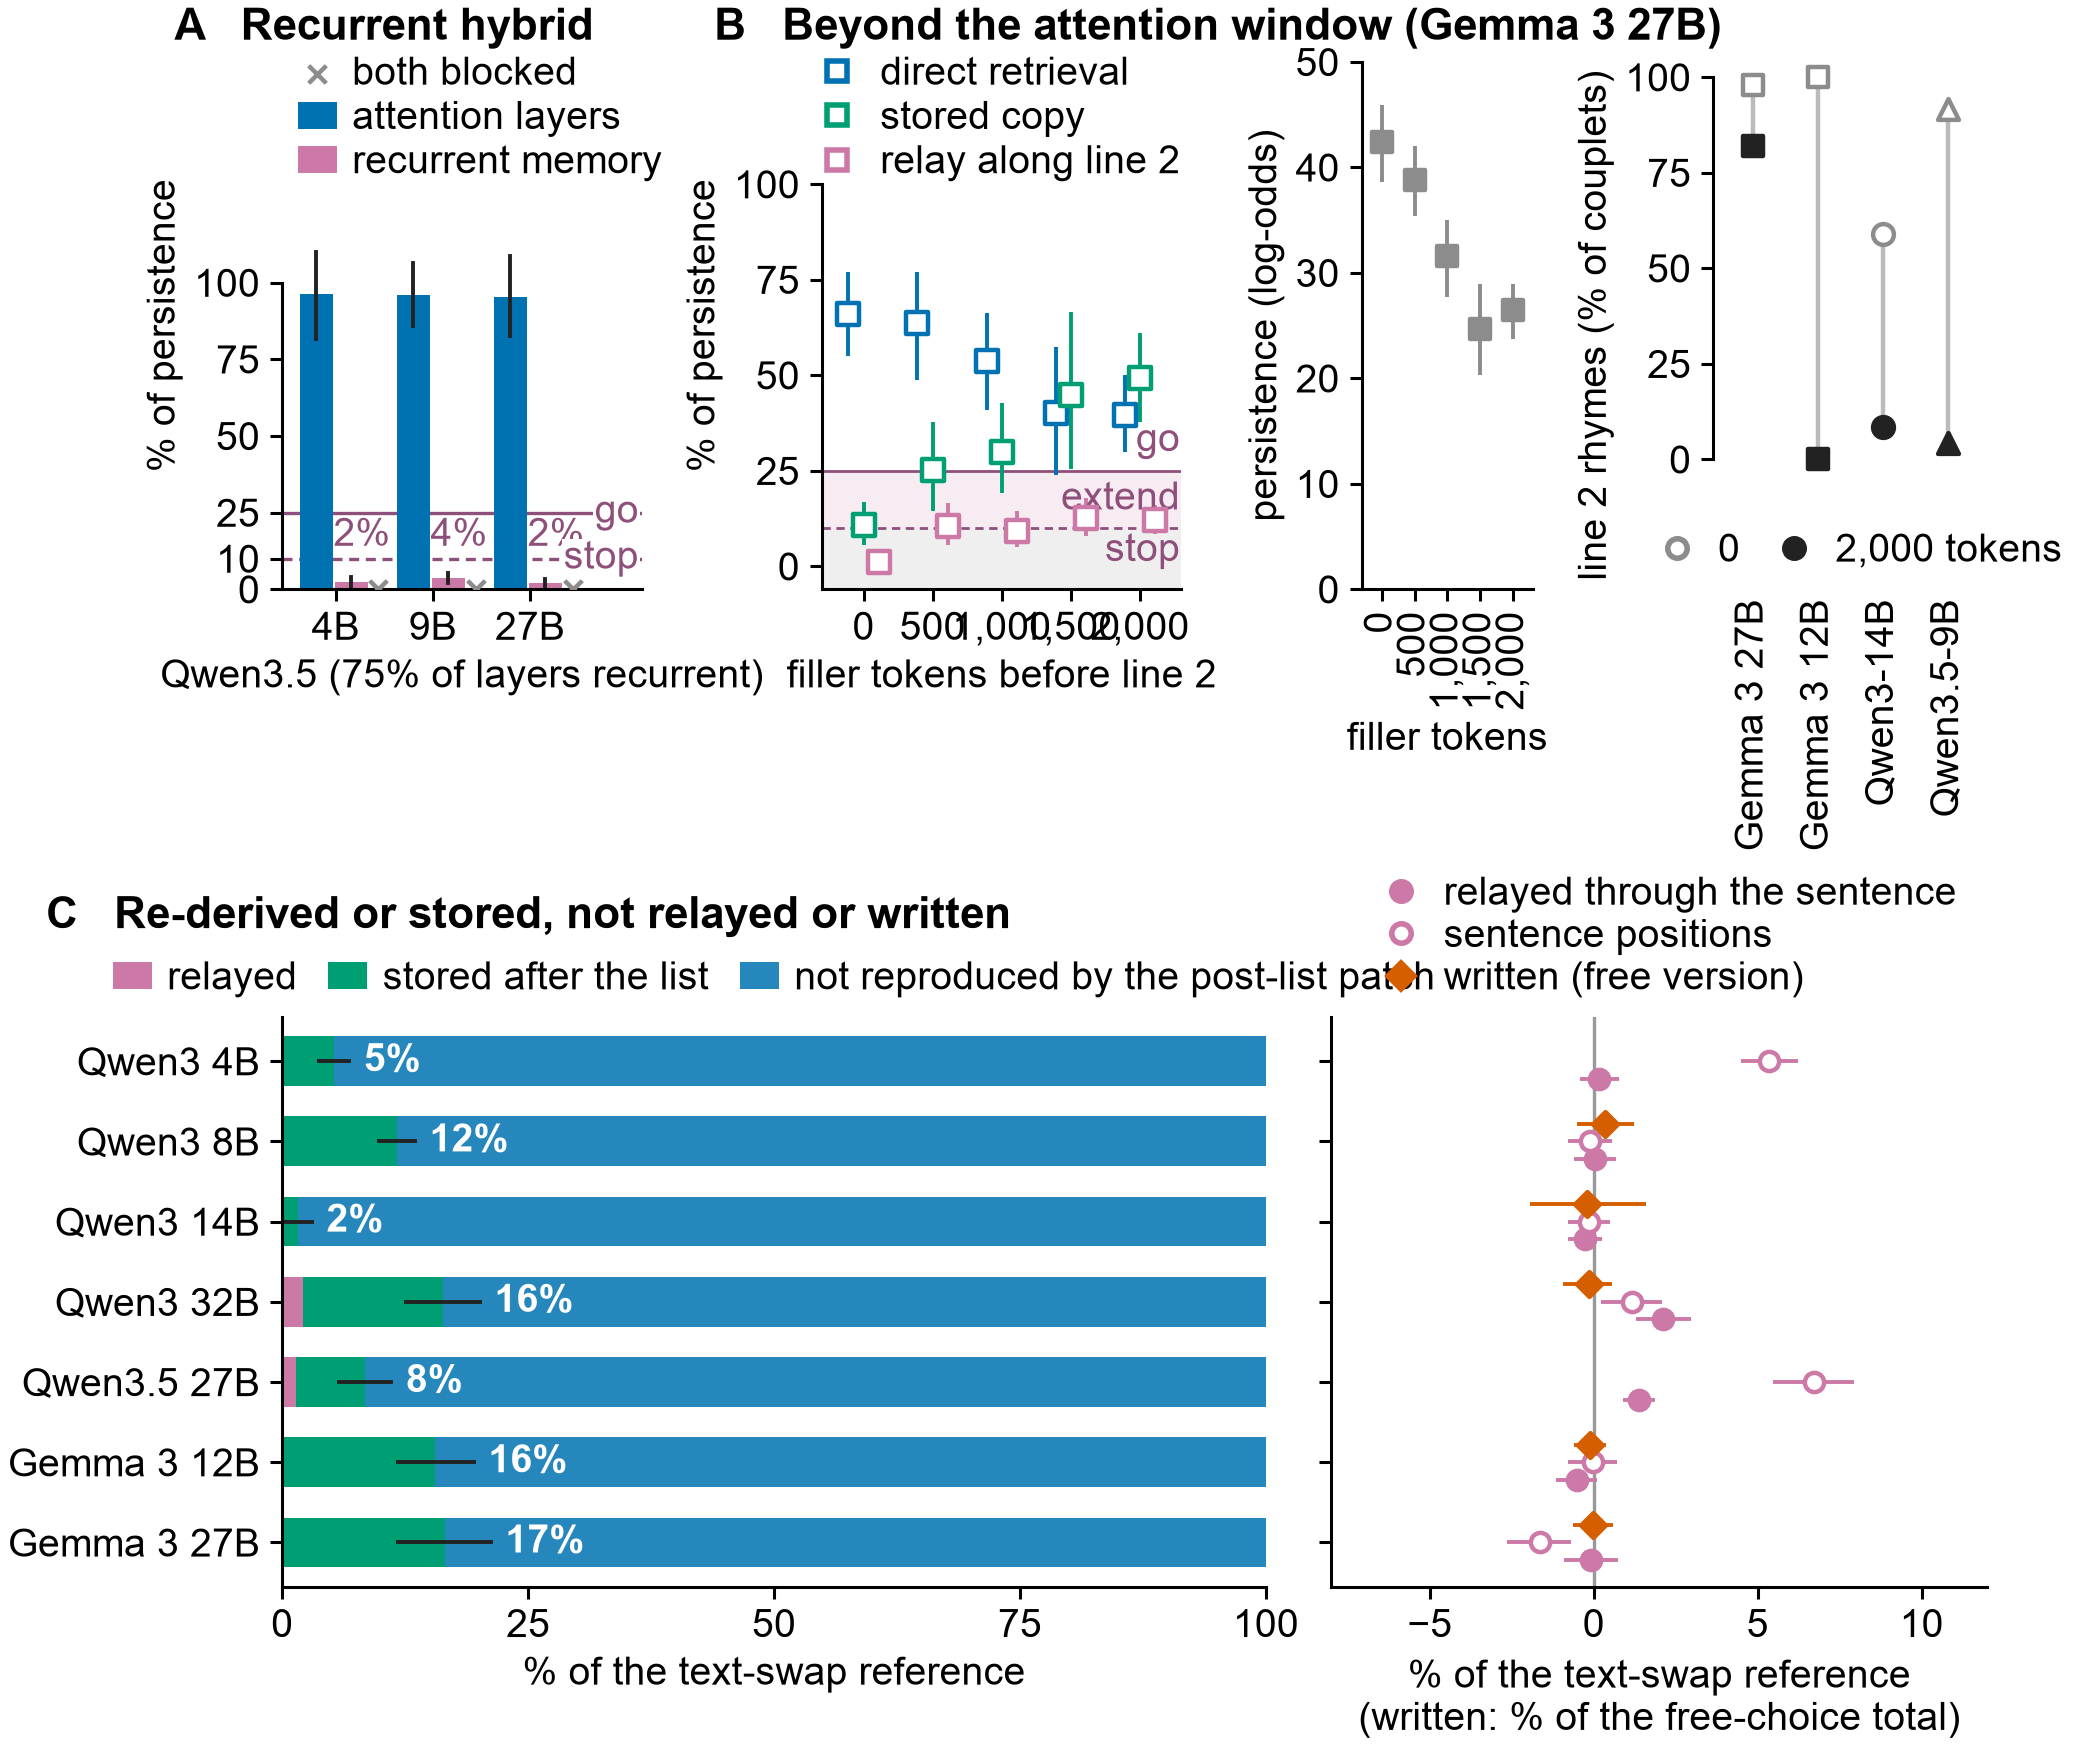
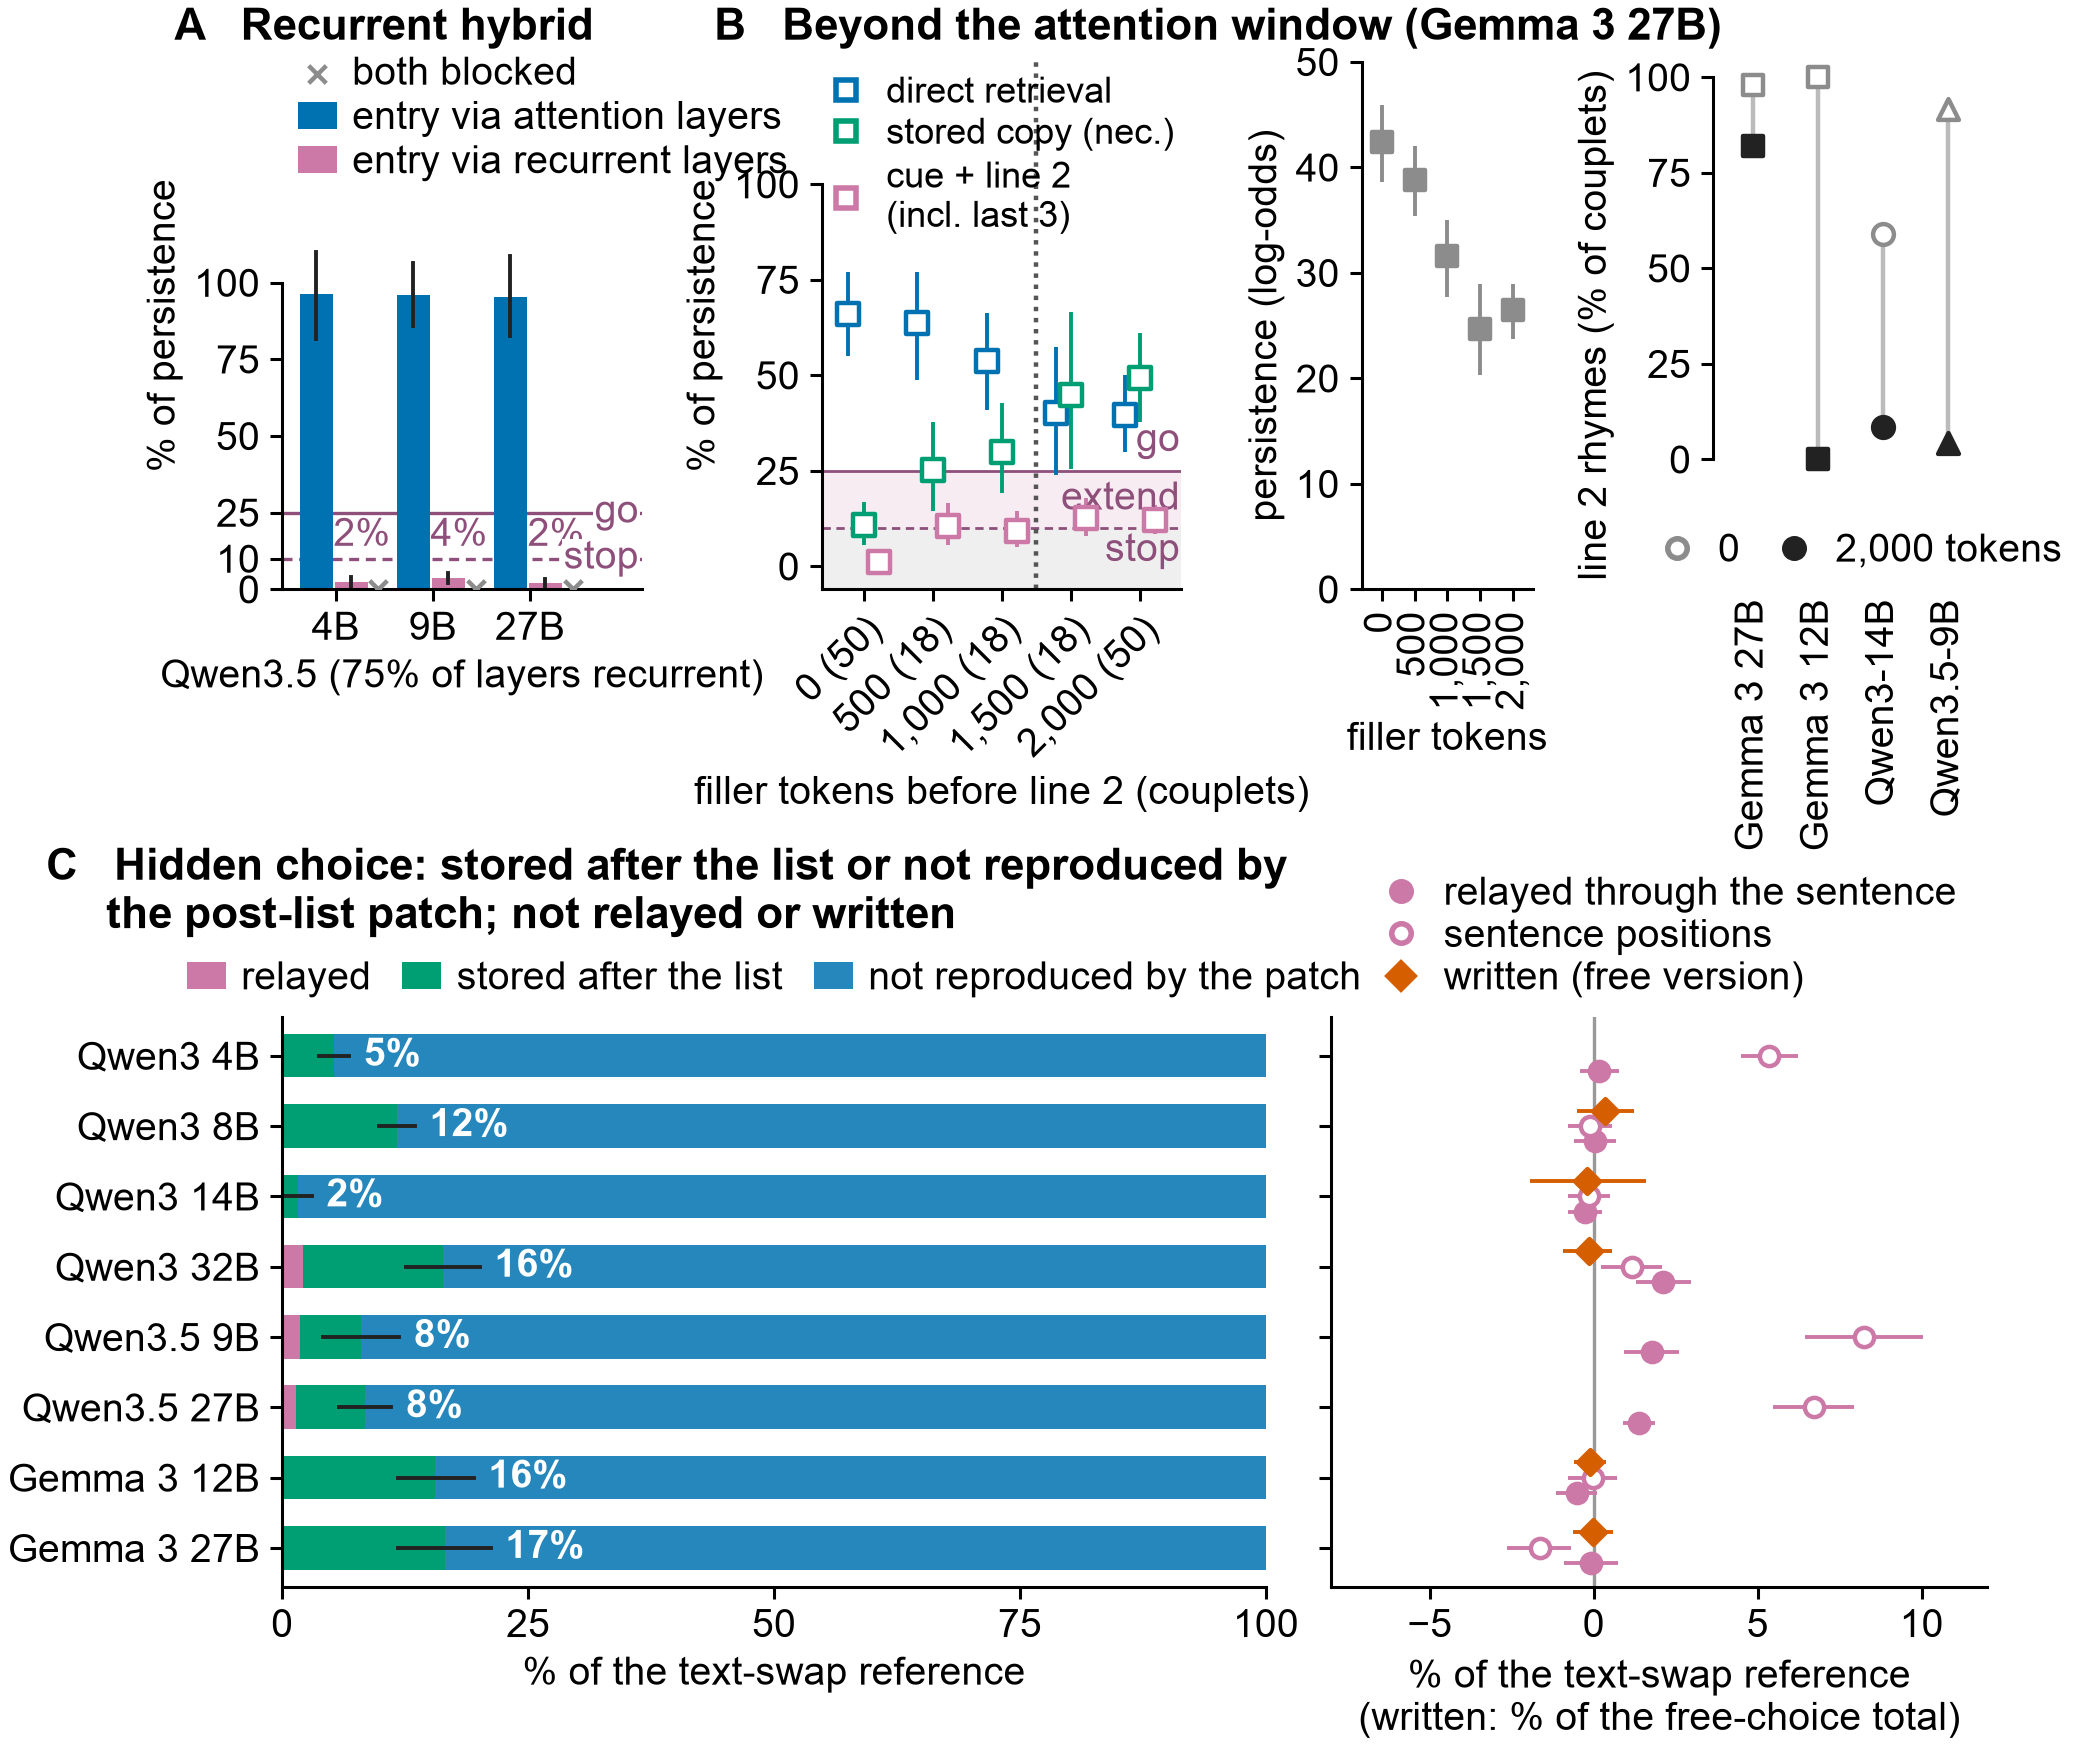
Review round 4 consistency pass: abstract, Table 1, recurrent wording as source entry, distance block unsplit (boundary case), window curve sample sizes and window marker, hidden-choice complement wording, Figure 5 patch-effect wording

diff --git a/manuscript/figures/make_iclr_figures.py b/manuscript/figures/make_iclr_figures.py
@@ -296,7 +296,7 @@ def fig1():
     xr0, xr1 = 1.92, 5.3
     axT = fig.add_axes([fx(xr0), fy(ybot + hb + brk), fx(xr1 - xr0), fy(ht)])
     axL = fig.add_axes([fx(xr0), fy(ybot), fx(xr1 - xr0), fy(hb)])
-    fig.text(0.0, fy(3.3), "B   Relay carries induction; elsewhere information is looked up", fontsize=8,
+    fig.text(0.0, fy(3.3), "B   Measured lookup and relay cells: relay carries induction, and is small elsewhere", fontsize=8,
              weight="bold", va="top")
     den_y = fy(0.5)
 
@@ -956,8 +956,8 @@ def fig4():
         a = share(x["attention_only"], x["persistence"])
         r = share(x["recurrent_only"], x["persistence"])
         b = share(x.get("both_blocked"), x["persistence"])
-        ax.bar(i - 0.2, a[0], 0.34, color=COL["retrieval"], label="attention layers" if i == 0 else None)
-        ax.bar(i + 0.16, r[0], 0.34, color=COL["relay"], label="recurrent memory" if i == 0 else None)
+        ax.bar(i - 0.2, a[0], 0.34, color=COL["retrieval"], label="entry via attention layers" if i == 0 else None)
+        ax.bar(i + 0.16, r[0], 0.34, color=COL["relay"], label="entry via recurrent layers" if i == 0 else None)
         for xx, v in ((i - 0.2, a), (i + 0.16, r)):
             if np.isfinite(v[1]):
                 ax.plot([xx, xx], [v[1], v[2]], color=COL["ink"], lw=0.7)
@@ -994,21 +994,24 @@ def fig4():
                           (0.22, "relay_line2", COL["relay"])):
             dot(ax, i + off, share(v[k], v["persistence"]), c, "s", False, s=16)
     ax.set_xticks(range(len(ds)))
-    ax.set_xticklabels([f"{D:,}" for D in ds])
+    ax.set_xticklabels([f"{D:,} ({byd[D]['n']})" for D in ds], rotation=45, ha="right", rotation_mode="anchor")
     ax.set_xlim(-0.6, len(ds) - 0.4)
     ax.set_ylim(-6, 132)
+    if 1000 in ds and 1500 in ds:
+        xw = (ds.index(1000) + ds.index(1500)) / 2
+        ax.axvline(xw, color="#555555", lw=0.8, ls=(0, (1, 1.5)), zorder=1)
     ax.set_yticks([0, 25, 50, 75, 100])
     ax.spines["left"].set_bounds(-6, 100)
     xr = len(ds) - 0.42
     ax.text(xr, 4, "stop", fontsize=7, color="#8E4F7A", ha="right", va="center")
     ax.text(xr, 17.5, "extend", fontsize=7, color="#8E4F7A", ha="right", va="center")
     ax.text(xr, 28, "go", fontsize=7, color="#8E4F7A", ha="right", va="bottom")
-    ax.set_xlabel("filler tokens before line 2")
+    ax.set_xlabel("filler tokens before line 2 (couplets)")
     ax.set_ylabel("% of persistence")
     hs = [Line2D([], [], ls="none", marker="s", ms=3.5, mfc="white", mec=c) for c in
           (COL["retrieval"], COL["storage"], COL["relay"])]
-    ax.legend(hs, ["direct retrieval", "stored copy", "relay along line 2"], loc="upper right",
-              handletextpad=0.1, borderaxespad=0.0, labelspacing=0.2, bbox_to_anchor=(1.04, 1.04))
+    ax.legend(hs, ["direct retrieval", "stored copy (nec.)", "cue + line 2\n(incl. last 3)"], loc="upper right",
+              handletextpad=0.1, borderaxespad=0.0, labelspacing=0.2, bbox_to_anchor=(1.02, 1.0), fontsize=6.5)
     ax.set_title("B   Beyond the attention window (Gemma 3 27B)", x=-0.3)
     # B, side: absolute persistence at each distance.
     ax = fig.add_subplot(g1[2])
@@ -1068,7 +1071,7 @@ def fig4():
         axc.barh(i, stored - relayed, 0.62, left=relayed, color=COL["storage"], lw=0,
                  label="stored after the list" if first else None)
         axc.barh(i, 100 - stored, 0.62, left=stored, color=COL["retrieval"], lw=0, alpha=0.85,
-                 label="not reproduced by the post-list patch" if first else None)
+                 label="not reproduced by the patch" if first else None)
         if np.isfinite(st[1]):
             axc.plot([st[1], st[2]], [i, i], color=COL["ink"], lw=0.7)
         axc.text(max(st[2], stored) + 1.5, i, f"{stored:.0f}%", fontsize=7, va="center", ha="left",
@@ -1088,7 +1091,7 @@ def fig4():
     axc.set_xlabel("% of the text-swap reference")
     axc.legend(loc="lower center", bbox_to_anchor=(0.5, 1.0), ncol=3, handlelength=1.0, columnspacing=0.8,
                borderaxespad=0.1)
-    axc.set_title("C   Re-derived or stored, not relayed or written", x=-0.24, pad=16)
+    axc.set_title("C   Hidden choice: stored after the list or not reproduced by\n     the post-list patch; not relayed or written", x=-0.24, pad=16)
     axz.axvline(0, color="#999999", lw=0.6, zorder=0)
     axz.tick_params(axis="y", labelleft=False)
     axz.set_xlim(-8, 12)
@@ -1168,7 +1171,7 @@ def fig5():
     ax.set_yticks([0, 25, 50, 75, 100])
     ax.set_xlabel("Qwen3 parameters (B)")
     ax.set_ylabel("share of the source effect that\nreaches the answer downstream (%)")
-    ax.set_title("Unwritten values are recomputed; written values are followed")
+    ax.set_title("Unwritten: near-zero downstream patch effect; written: the answer follows the text")
     save(fig, "iclr_fig5_computed_and_written.png")
 
 
